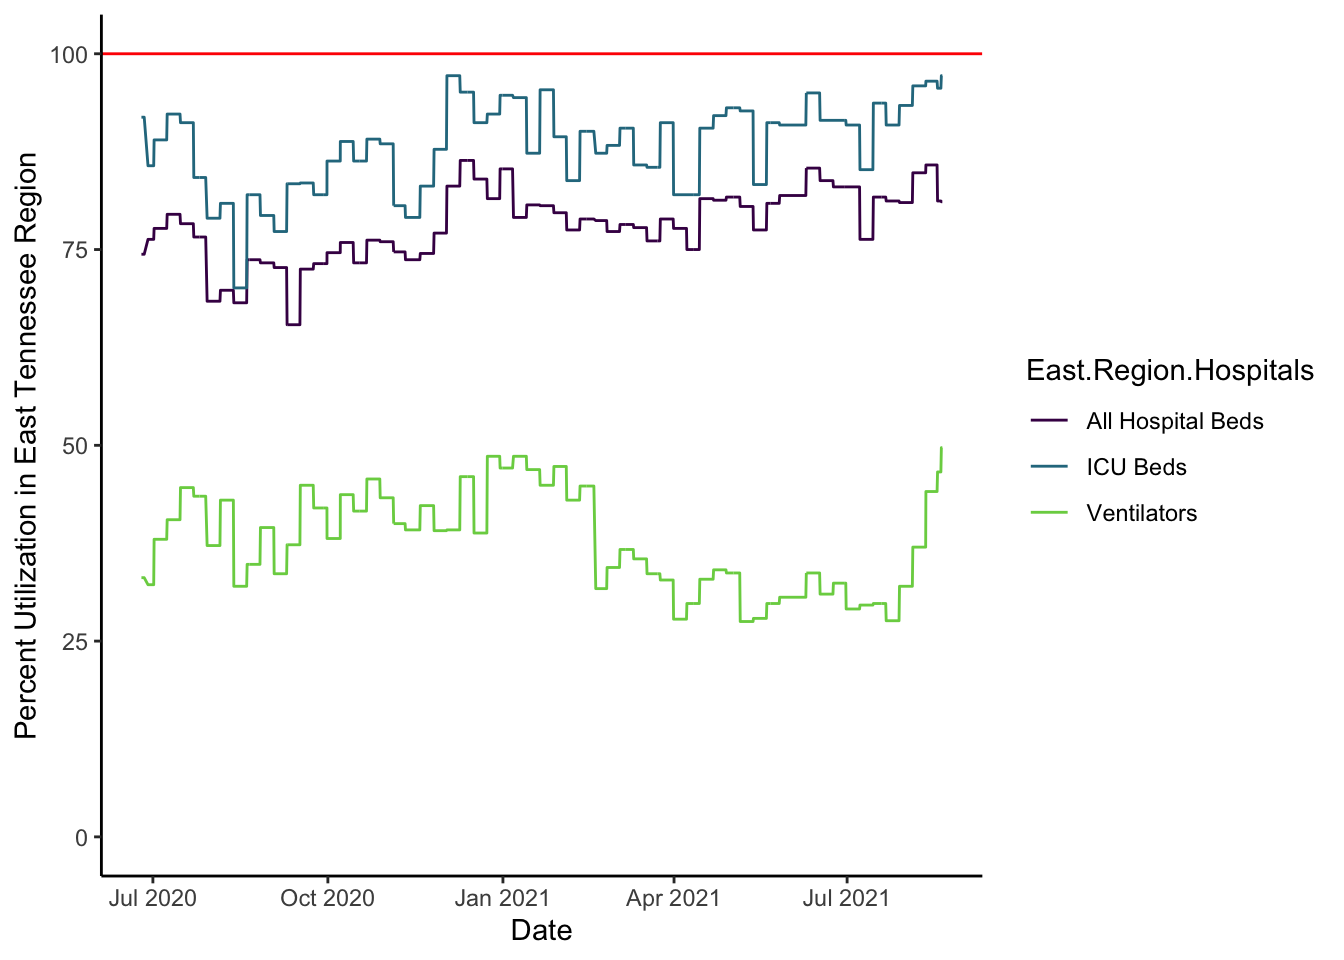
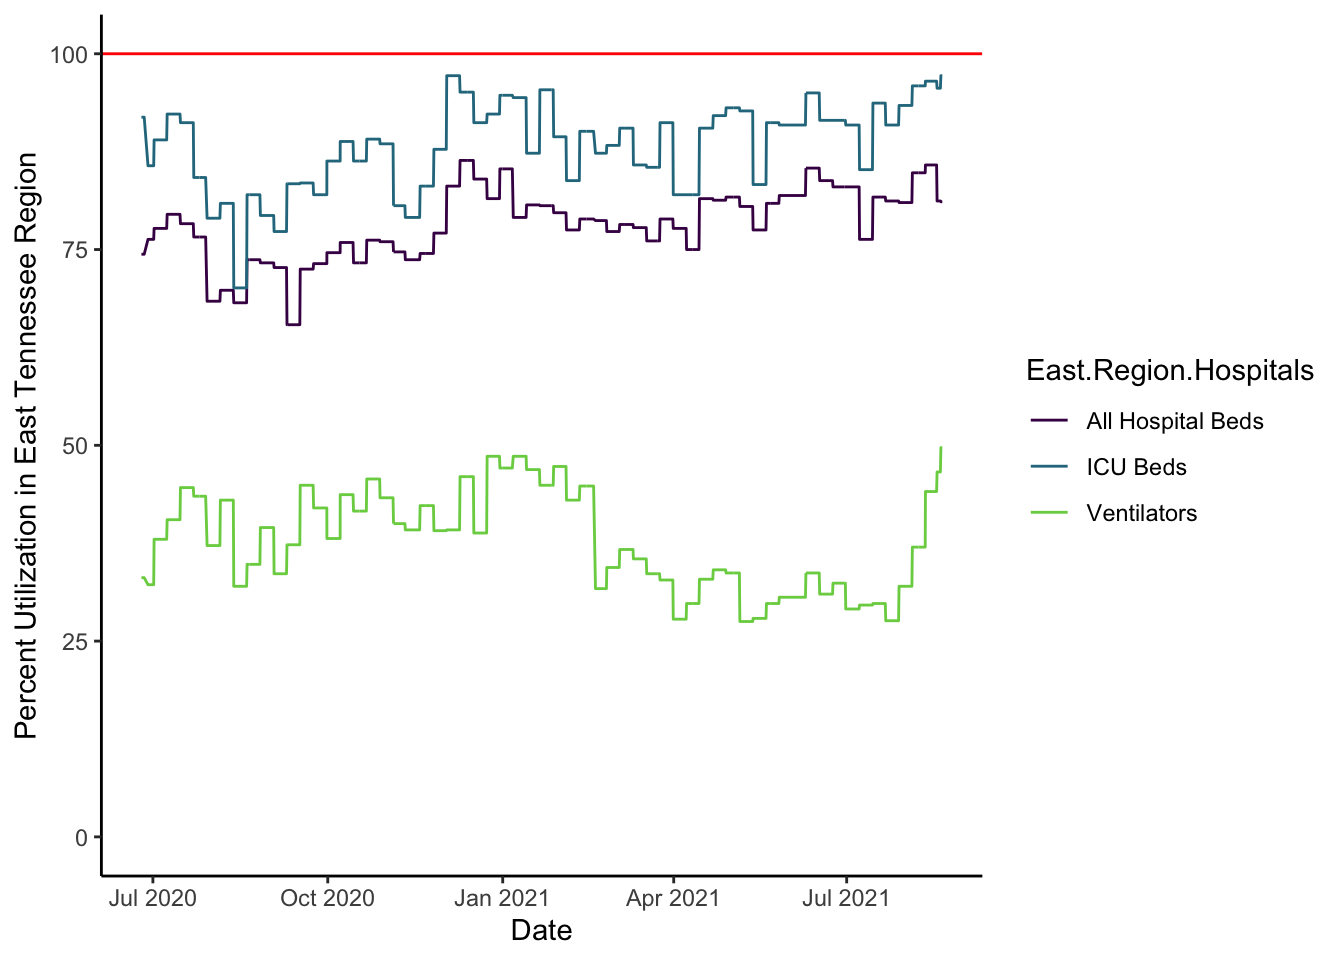
updating site

diff --git a/docs/covid.html b/docs/covid.html
@@ -381,7 +381,7 @@ $(document).ready(function () {
 <li><a href="https://healthdata.gov/dataset/covid-19-reported-patient-impact-and-hospital-capacity-facility">US HHS hospitalization by facility</a></li>
 </ul>
 <hr />
-<p>The following plots are created in R using data from <a href="https://covid19datahub.io" class="uri">https://covid19datahub.io</a> (Guidotti, E., Ardia, D., (2020), “COVID-19 Data Hub”, Working paper, doi: 10.13140/RG.2.2.11649.81763), as well as information from Google and the <a href="https://www.tn.gov/health/cedep/ncov/data/downloadable-datasets.html">state of Tennessee dataset page</a> and plotting and analysis using the <code>forecast</code>, <code>ggplot2</code>, <code>reshape2</code>, and <code>dplyr</code> packages. Plots created on 2021-08-20 07:00:58. I use a seven day rolling average for most plots using the <code>geom_ma</code> function of <code>tidyquant</code>.</p>
+<p>The following plots are created in R using data from <a href="https://covid19datahub.io" class="uri">https://covid19datahub.io</a> (Guidotti, E., Ardia, D., (2020), “COVID-19 Data Hub”, Working paper, doi: 10.13140/RG.2.2.11649.81763), as well as information from Google and the <a href="https://www.tn.gov/health/cedep/ncov/data/downloadable-datasets.html">state of Tennessee dataset page</a> and plotting and analysis using the <code>forecast</code>, <code>ggplot2</code>, <code>reshape2</code>, and <code>dplyr</code> packages. Plots created on 2021-08-20 09:42:19. I use a seven day rolling average for most plots using the <code>geom_ma</code> function of <code>tidyquant</code>.</p>
 <h2 id="cases">
 Cases
 </h2>
@@ -540,6 +540,8 @@ University of Tennessee, Knoxville, 2021-2022
 <p><img src="covid_files/figure-html/utk2021isolations-1.png" width="672" /></p>
 <p>At the time this section of the page was last edited (Aug. 18, 2021), UTK’s guidance was for masks to be required in classrooms, labs, and indoor areas where compulsory activities were being held, a policy put in place Aug. 2, 2021. Spaces like hallways, dining halls, elevators, and libraries are apparently not included in this requirement. However, anyone <strong><em>may</em></strong> wear a mask anywhere on campus; those who seek to follow the CDC’s recommendations in order to <strong>protect others and themselves</strong> will wear them in all indoor spaces. Unlike <a href="https://www.chronicle.com/blogs/live-coronavirus-updates/heres-a-list-of-colleges-that-will-require-students-to-be-vaccinated-against-covid-19">over 650 other colleges and universities</a>, UTK has no vaccination mandate in general (there may be exceptions in particular areas, like nursing with high patient contact). According to an <a href="https://chancellor.utk.edu/2021/08/02/updated-covid-guidelines/">Aug. 2 notice by the Chancellor</a>, the university will no longer be requesting saliva testing to track spread (though testing kits are available in the student health center). I do not know of data on vaccination rate at UTK; a rough estimate may come from LSU, which as of <a href="https://www.washingtonpost.com/education/2021/08/06/college-covid-vaccines-student-rates/">Aug. 2 had a 34% vaccination rate among students</a>.</p>
 <p>UT is holding various events and messaging at the start of the school year. These are images from leaders’ or university accounts.</p>
+<p><a href="https://twitter.com/DondePlowman/status/1428671118446112770">August 20, 2021</a></p>
+<p><img src="Aug20_2021.png" title="Chancellor Plowman with two students in Chancellor's office" alt="Chancellor Plowman with two students in Chancellor's office" width="400px" /></p>
 <p><a href="https://twitter.com/UTKLibraries/status/1427648231224315920">August 17, 2021</a></p>
 <p><img src="Aug17_2021b.png" title="Dean Smith, Chancellor Plowman, and various masked students" alt="Dean Smith, Chancellor Plowman, and various masked students" width="400px" /></p>
 <p><a href="https://twitter.com/VOLNursingDEAN/status/1427693307690369024">August 17, 2021</a></p>
